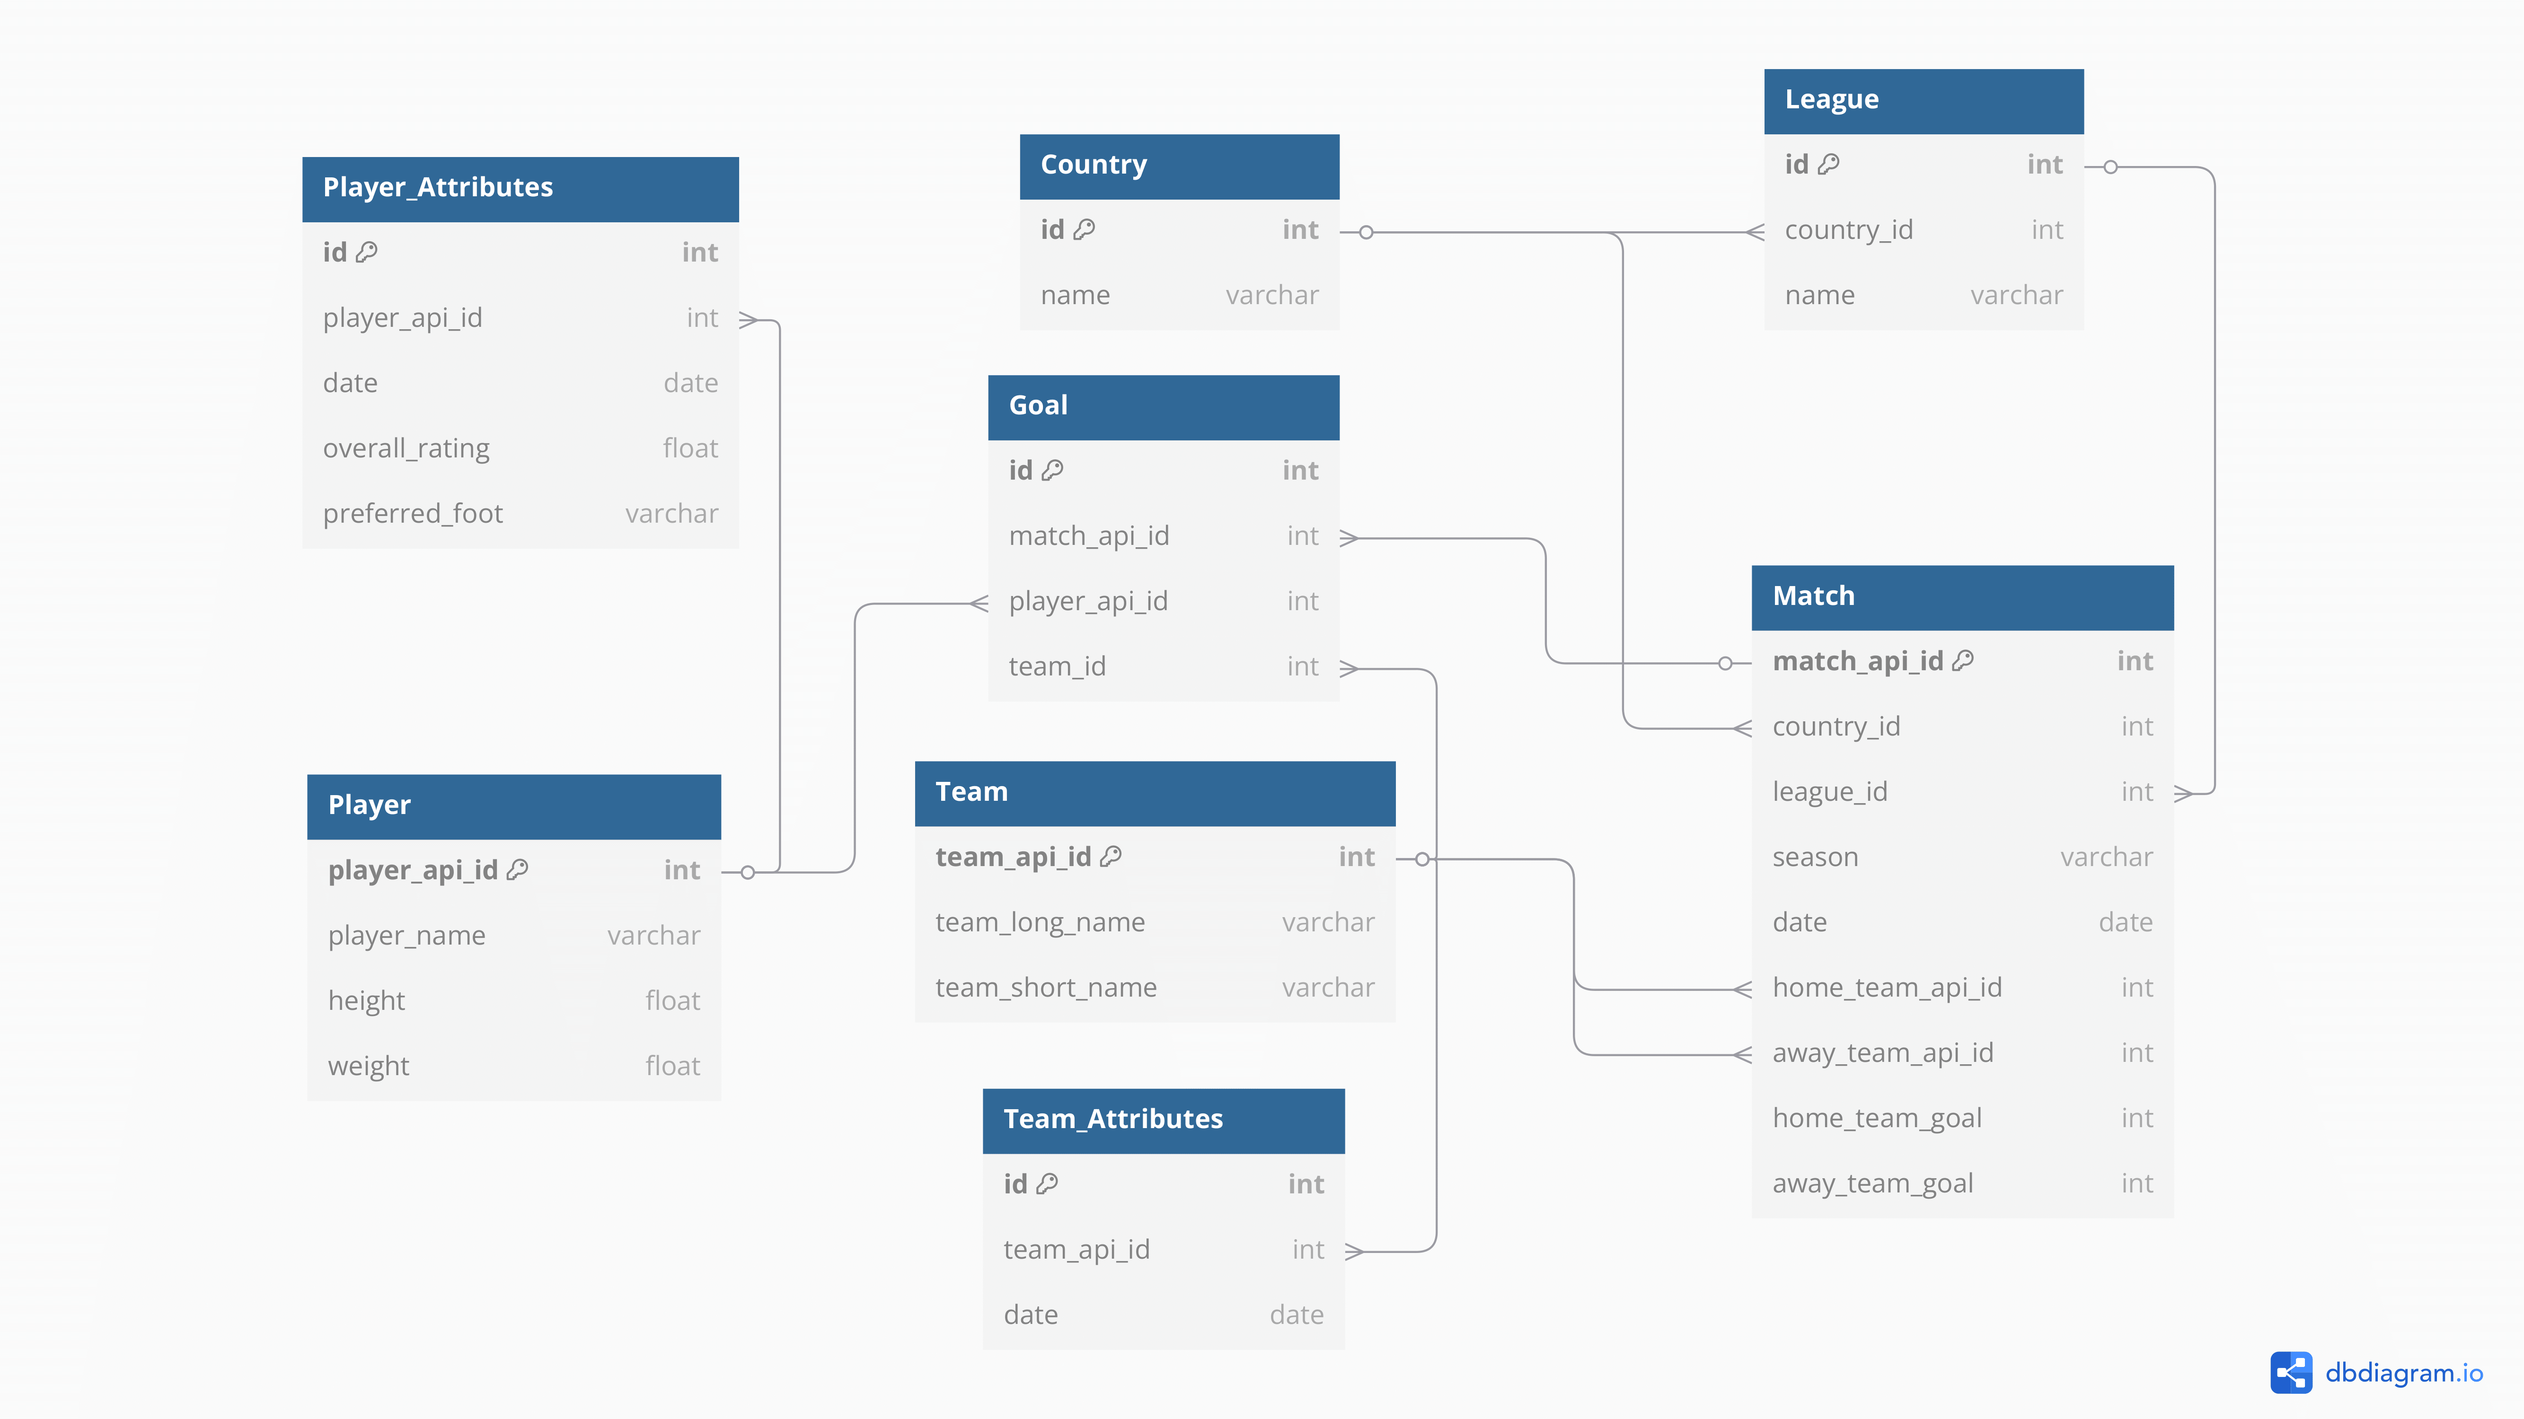
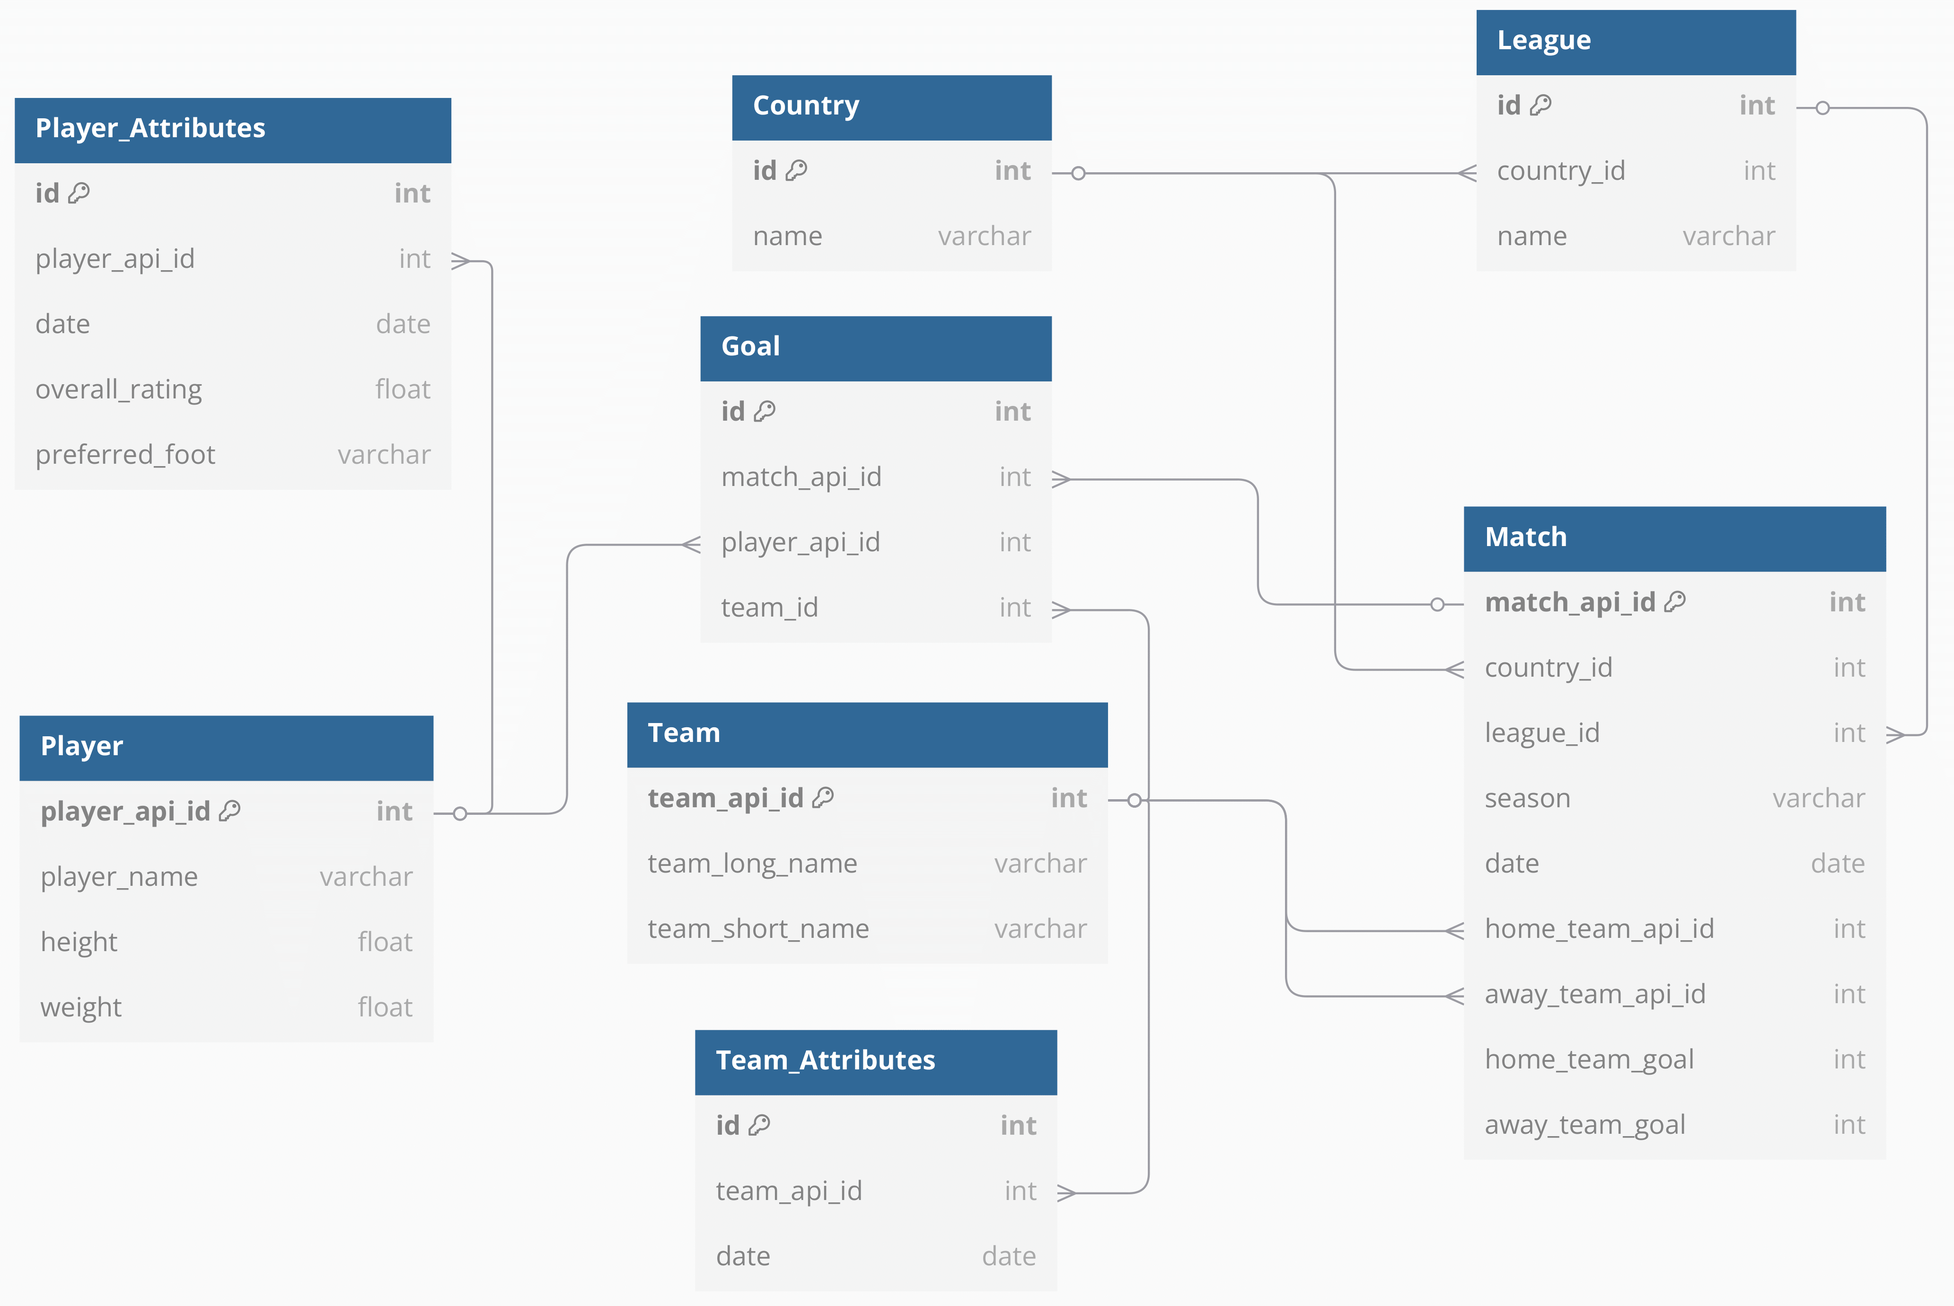
rapport amelioration

diff --git a/rapport/Sections/p2.tex b/rapport/Sections/p2.tex
@@ -13,19 +13,20 @@ saison 2015/2016 ?}
 
 \vskip 10pt
 
-Pour réaliser cette question, nous avons codé en python pur, c'est-à-dire sans
+Pour réaliser cette question, nous avons codé en Python pur, c'est-à-dire sans
 l'aide du module pandas. Nous avons utilisé les règles officielles pour le
 classement de la Premier League. Les critères, par ordre d'importance, sont les
-suivants: le nombre de points, la différence de buts et le nombre de buts
-marqués. Nous avons voulu laisser la possibilité à l'utilisateur de choisir une
-autre saison que 2015/2016. De plus, il a la possibilité de demander le
-classement d'un autre championnat. Ce dernier point doit être précisé, puisque
-les critères utilisés pour départager deux équipes ayant le même nombre de
-point dépend du championnat. En France par exemple, si la différence de buts
-est la même, nous regardons les points obtenus lors des confrontations directes
-entre les deux équipes. Cependant, dans un souci de temps imparti, nous n'avons
-pas pu ajuster les critères en fonction des championnats et les classements
-sont réalisés selon les règles de la Premier League.
+suivants: le nombre de points, puis la différence de buts, puis le nombre de
+buts marqués. Nous avons voulu laisser la possibilité à l'utilisateur de
+choisir une autre saison que 2015/2016. De plus, il a la possibilité de
+demander le classement d'un autre championnat. Ce dernier point doit être
+précisé, puisque les critères utilisés pour départager deux équipes ayant le
+même nombre de points dépend du championnat. En France par exemple, si la
+différence de buts est la même, nous regardons les points obtenus lors des
+confrontations directes entre les deux équipes. Cependant, dans un souci de
+temps imparti, nous n'avons pas pu ajuster les critères en fonction des
+championnats et les classements sont réalisés selon les règles de la Premier
+League.
 
 \vskip 10pt
 
@@ -34,14 +35,12 @@ buts dans le jeu de données ?}
 
 \vskip 10pt
 
-Cette fois, nous avons répondu à la question en utilisant le paquet pandas. De
-plus, nous avons ajouter la possibilité pour l'utilisateur de choisir si il
-veut obtenir les matchs avec la plus grande différence de buts pour toutes les
-saisons confondues, ou bien pour une saison bien particulière.
-
+Nous avons répondu à la question en utilisant le paquet pandas. De plus, nous
+avons ajouté la possibilité pour l'utilisateur de choisir s'il veut obtenir les
+matchs avec la plus grande différence de buts pour toutes les saisons
+confondues, ou bien pour une saison bien particulière.
 
 \subsection{Questions choisies}
-
 
 \textbf{Question 3 : Quelle est la taille moyenne des joueurs ayant marqué de
 la tête ?}
@@ -51,11 +50,11 @@ la tête ?}
 Pour trouver l'intitulé de cette question, nous voulions profiter de la liberté
 que nous possédions afin de déterminer une statistique descriptive que l'on ne
 trouve pas habituellement. La taille moyenne des joueurs marquant de la tête
-semble être une statistique inutile à première vue, mais nous souhaitions
-observer si cette taille était élevée, ou bien similaire à la taille moyenne
-d'une population de joueurs de foot. Comme pour les questions précédentes, nous
-avons permis à l'utilisateur de choisir une saison en particulier ou non. De
-plus, nous l'avons traitée avec pandas.
+peut sembler anecdotique à première vue, mais nous souhaitions observer si
+cette taille était élevée, ou bien similaire à la taille moyenne d'une
+population de joueurs de foot. Comme pour les questions précédentes, nous avons
+permis à l'utilisateur de choisir une saison en particulier ou non. De plus,
+nous l'avons traitée avec pandas.
 
 \vskip 10pt
 
@@ -66,24 +65,24 @@ cartons jaunes, des cartons rouges, des buteurs et des passeurs ?}
 
 Ces quatre questions sont en réalité très similaires, d'où notre volonté de les
 rassembler en une seule question. Ce sont des statistiques très facilement
-accessibles sur les sites spécialisés puisqu'elles sont au coeur des débats
+accessibles sur les sites spécialisés puisqu'elles sont au cœur des débats
 footballistiques. Elles ont toutes été traitées avec le paquet pandas.
 L'utilisateur peut choisir la saison pour laquelle il veut afficher le
 classement en question.
 
 \vskip 10pt
 
-\textbf{Question 5 : Combien de fois ont été utilisé chaque dispositif ?}
+\textbf{Question 5 : Combien de fois chaque dispositif a-t-il été utilisé ?}
 
 \vskip 10pt
 
-Au départ, nous voulions connaître le dispositif le plus utilisé, et qui
-semblerait être le préféré des entraîneur. La réponse renvoyée était la même
-pour chaque saison: 4 2 3 1. Nous avons alors eu envie de connaître les autres
-dispositifs les plus utilisés, d'où la création de ce classement. Il est
-important de rappeler que la base de donnée ne prend pas en compte les
-changements possibles de dispositif au cours d'un match. La réalisation de
-cette question a été faite en utilisant pandas.
+Au départ, nous voulions connaître le dispositif le plus utilisé, et qui semble
+être le préféré des entraîneurs. La réponse renvoyée était la même pour chaque
+saison: 4 2 3 1. Nous avons alors eu envie de connaître les autres dispositifs
+les plus utilisés, d'où la création de ce classement. Il est important de
+rappeler que la base de données ne prend pas en compte les éventuels
+changements de dispositif au cours d'un match. La réalisation de cette question
+a été faite en utilisant pandas.
 
 \vskip 10pt
 
@@ -93,10 +92,10 @@ de matchs nuls ?}
 \vskip 10pt
 
 De nouveau, nous avions envie de chercher un résultat original. Pour cela, nous
-avons utilisé le paquet pandas. L'idée était de trouver ce jour un peu
-exceptionnel, par curiosité. Il s'agit d'un samedi , ce qui semble logique
-puisque plus de matchs y sont joués. Le paquet pandas nous a de nouveau servi
-ici.
+avons utilisé le paquet pandas. Nous cherchions à identifier un jour
+particulièrement notable, et le jour ayant connu le plus de matchs nuls était
+idéal. Il s'agit d'un samedi, ce qui semble logique puisque plus de matchs y
+sont joués. Le paquet pandas nous a de nouveau servi ici.
 
 \vskip 10pt
 
@@ -113,7 +112,7 @@ simplifier le choix des critères en fonction des postes. La méthode utilisée
 pour sélectionner un joueur à un poste est la suivante:
 
 \begin{itemize}
-    \item \textbf{Choix des critères les plus importants pour jouer à un
+    \item \textbf{Sélection des critères les plus importants pour jouer à un
     poste.} Par exemple, en ce qui concerne les défenseurs centraux, nous avons
     sélectionné des aptitudes telles que l'agressivité, l'interception, les
     tacles, la détente, la force et le marquage. Nous ne développons pas les
@@ -134,10 +133,27 @@ pour sélectionner un joueur à un poste est la suivante:
 
 \vskip 10pt
 
-L'utilisateur a ici le choix de choisir la saison pour laquelle il souhaite
-obtenir l'équipe type. Pour une visualisation plus agréable, nous avons
-modélisé un beau terrain de foot afin de placer les joueurs au bon endroit.
-Toute cette question a été réalisée à l'aide du paquet pandas. 
+L'utilisateur peut ici choisir la saison pour laquelle il souhaite obtenir
+l'équipe type. Pour une visualisation plus agréable, nous avons modélisé un
+beau terrain de foot afin de placer les joueurs au bon endroit. Toute cette
+question a été réalisée à l'aide du paquet pandas. 
+
+\vskip 10pt
+
+\textbf{Question 8 : Quelles sont les équipes qui sont les plus régulières en
+terme de performances ?}
+
+Il est intéressant de savoir si certaines équipes sont constantes dans leurs
+performances, que ça soit avec de bonnes ou moins bonnes aptitudes. Pour
+répondre à cette question, il est possible de proposer de nombreuses méthodes.
+Nous allons donc détailler la nôtre. Nous utilisons d'abord la table Matchs
+afin de connaître les 11 joueurs les plus souvent alignés pour chaque équipe et
+simplifier notre démarche. Nous utilisons ensuite la table des attributs des
+joueurs afin d'évaluer l'écart-type de ses attributs techniques à différents
+instants. Puis nous calculons la moyenne de ces écarts-types pour chaque
+joueur. Nous calculons ensuite la moyenne des écarts-types pour chaque équipe,
+en considérant les 11 joueurs jouant le plus. Nous obtenons alors les équipes
+dont les joueurs ont des performances plutôt cohérentes dans le temps.
 
 \vskip 10pt
 
@@ -149,12 +165,28 @@ domicile ?}
 Jouer à domicile est souvent considéré comme un avantage. Les supporters sont
 parfois appelés le 12e homme, les joueurs sont familiers avec l'environnement,
 ils n'ont pas besoin d'effectuer un long trajet. Tout semble en effet favoriser
-l'équipe qui joue à domicile. Cependant, certaines équipe ont de meilleurs
+l'équipe qui joue à domicile. Cependant, certaines équipes ont de meilleurs
 résultats à l'extérieur, et c'est ce que nous avons voulu mettre en avant dans
 cette question. Nous avons réalisé le classement en fonction de l'écart entre
 le nombre moyen de buts marqués à l'extérieur et à domicile. Nous avons étudié
 l'écart des moyennes pour que la comparaison entre les équipes soit pertinente.
-Cette fois, nous avons répondu à la question en python pur.
+Cette fois, nous avons répondu à la question en Python pur.
+
+\vskip 10pt
+
+\textbf{Question 10 : Quelle est l'évolution des attributs physiques des
+joueurs en fonction de leur âge ?}
+
+\vskip 10pt
+
+Il est intéressant d'étudier l'évolution de certaines capacités physiques en
+fonction de l'âge des joueurs. Nous pensons que l'accélération, la force et
+l'endurance sont trois facteurs qui varient fortement en fonction de l'âge,
+d'où notre choix d'étude de ceux-ci. Nous calculons ensuite la moyenne des
+attributs sélectionnés pour chaque catégorie d'âge. Le résultat de cette
+question est un graphique affichant clairement la moyenne pour chaque
+catégorie. On y voit facilement l'évolution des attributs, ce qui est plutôt
+intéressant à observer.
 
 \vskip 10pt
 
@@ -163,8 +195,16 @@ cadrés ?}
 
 \vskip 10pt
 
-L'idée était de connaître l'équipe avec le moins de résussite, par rapport à
-ses frappes cadrées. En d'autres termes, quelle équipe a du faire face à des
+L'idée était de connaître l'équipe avec le moins de réussite, par rapport à ses
+frappes cadrées. En d'autres termes, quelle équipe a dû faire face à des
 gardiens très efficaces ? L'utilisateur a de nouveau la possibilité de choisir
-la saison pour laquelle il souhaite voir cette statique. Cette question a été
-réalisée en python pur.
+la saison pour laquelle il souhaite consulter cette statistique. Cette question
+a été réalisée en Python pur.
+
+\vskip 25pt 
+
+Nous avons souhaité offrir des résultats qui allient nos connaissances
+statistiques, des choix subjectifs dans la création et la sélection des
+résultats, ainsi que de l’originalité. L’accent a été mis sur l’interactivité
+de l’utilisateur et sur une visualisation agréable des résultats, tout en
+utilisant diverses techniques pour enrichir l'expérience.

diff --git a/rapport/Sections/p1.tex b/rapport/Sections/p1.tex
@@ -4,11 +4,32 @@
 
 Pour réaliser notre travail, nous avons utilisé une base de données
 relationnelle composée de plusieurs tables au format CSV. Celle-ci regroupe des
-données sur le football européen, allant de 2008 à 2016. Les différentes tables
-qui la compose sont: 
+données sur le football européen, allant de 2008 à 2016. Par souci de clarté,
+nous n'avons pas listé l'ensemble des champs de chaque table.
+
+\begin{figure}[H]
+    \centering
+    \includegraphics[width=1.0\textwidth, keepaspectratio]{Images/schema_relationnel2.png}
+    \begin{centering}
+        \captionsetup{justification=centering}
+    \caption{Schéma relationnel \\
+    \textit{Note de lecture : Une équipe peut jouer plusieurs matchs
+    (cardinalité 1,N), mais chaque match ne peut avoir qu'une seule équipe à
+    domicile (cardinalité 1,1).} \\
+    \textit{Réalisé sur dbdiagram.io}}
+    \end{centering}
+\end{figure}
+
+\vskip 10pt
+
+Les différentes tables qui composent notre base de données sont : 
+
+\vskip 10pt
+
 \begin{itemize}
     \item \textbf{Country} : Table de référence listant les pays. Elle associe
-    un identifiant à un nom de pays.
+    un identifiant unique à chaque pays, facilitant ainsi les relations avec
+    d'autres tables.
     \item \textbf{League} : Contient les championnats, en lien avec un pays.
     Chaque ligue a un nom et une clé étrangère vers \textit{Country}.
     \item \textbf{Match} : Table centrale regroupant les rencontres entre
@@ -28,20 +49,9 @@ qui la compose sont:
     imbriquées dans un champ XML de la table principale Match. Plus
     précisément, la colonne goal contient, pour chaque match, un bloc XML
     décrivant les événements de but (joueur, minute, type de but, équipe,
-    etc.). Ici, nous ne représentons que la table Goal, mais il en existe plein
-    d'autres de même nature telles que Shoton, Shotoff, Foulcommit, Card,
-    Cross, Corner ou Possession.
+    etc.). Ici, nous ne représentons que la table Goal, mais d'autres tables de
+    même nature existent également, comme Shoton, Shotoff, Foulcommit, Card,
+    Cross, Corner, et Possession.
 \end{itemize}
-
-\begin{figure}[H]
-    \centering
-    \includegraphics[width=0.9\textwidth, keepaspectratio]{Images/schema_relationnel2.png}
-    \begin{centering}
-        \captionsetup{justification=centering}
-    \caption{Schéma relationnel \\
-    \textit{Note de lecture : xxxxxxxxxxxxx.} \\
-    \textit{Réalisé sur dbdiagram.io}}
-    \end{centering}
-\end{figure}
 
 \vskip 10pt

diff --git a/project/src/q8_variance_11.py b/project/src/q8_variance_11.py
@@ -27,7 +27,7 @@ def run_q8():
     print("==================================================================")
     # Chargement
     player_attr = charger_csv("data/Player_Attributes.csv")
-    matches = charger_csv("data/Match.csv")
+    matchs = charger_csv("data/Match.csv")
     teams = charger_csv("data/Team.csv")
 
     # Attributs techniques utilisés
@@ -48,7 +48,7 @@ def run_q8():
     )
     player_std_by_player = moyenne_ecart_type_par_joueur(player_attr)
 
-    compteur = construire_compteur_joueurs(matches)
+    compteur = construire_compteur_joueurs(matchs)
     club_player_df = extraire_top_joueurs_par_club(compteur)
     club_consistency = calculer_consistance_club(
         club_player_df, player_std_by_player, teams

diff --git a/project/src/fonctions/utils.py b/project/src/fonctions/utils.py
@@ -565,6 +565,4 @@ def afficher_top_clubs_regularite(df, top_n=10):
         f"Top {top_n} clubs les plus réguliers (selon les 11 joueurs les "
         f"plus utilisés) :\n"
     )
-    print(
-        df[["Equipe", "Moyenne des écarts-types des performances"]].head(top_n)
-    )
+    print(df[["Equipe", "Moyenne des écarts-types des attributs"]].head(top_n))

diff --git a/rapport/Sections/p3.tex b/rapport/Sections/p3.tex
@@ -1,19 +1,5 @@
-\section{Troisième partie}
+\section{Apprentissage automatique}
 
 \subsection{Première sous-partie}
 
 
-
-
-\newpage
-
-\subsection{Deuxième sous-partie}
-
-
-
-
-
-
-\newpage
-
-\subsection{Troisième sous-partie}
